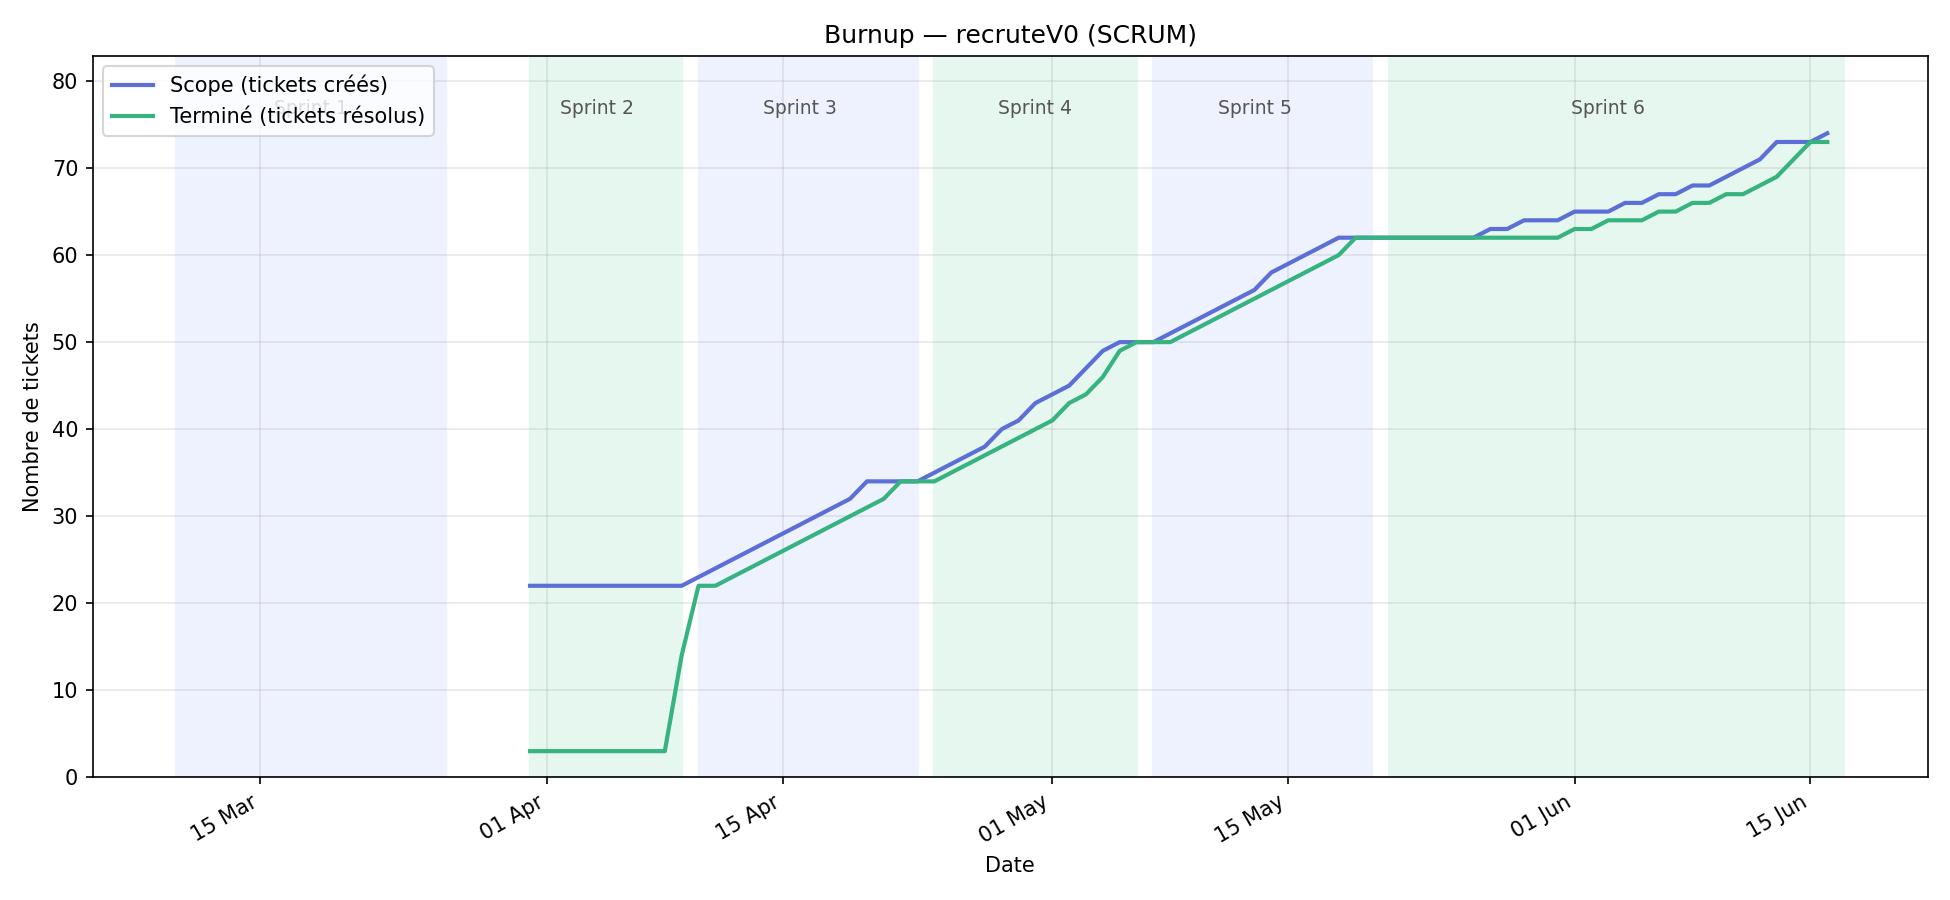
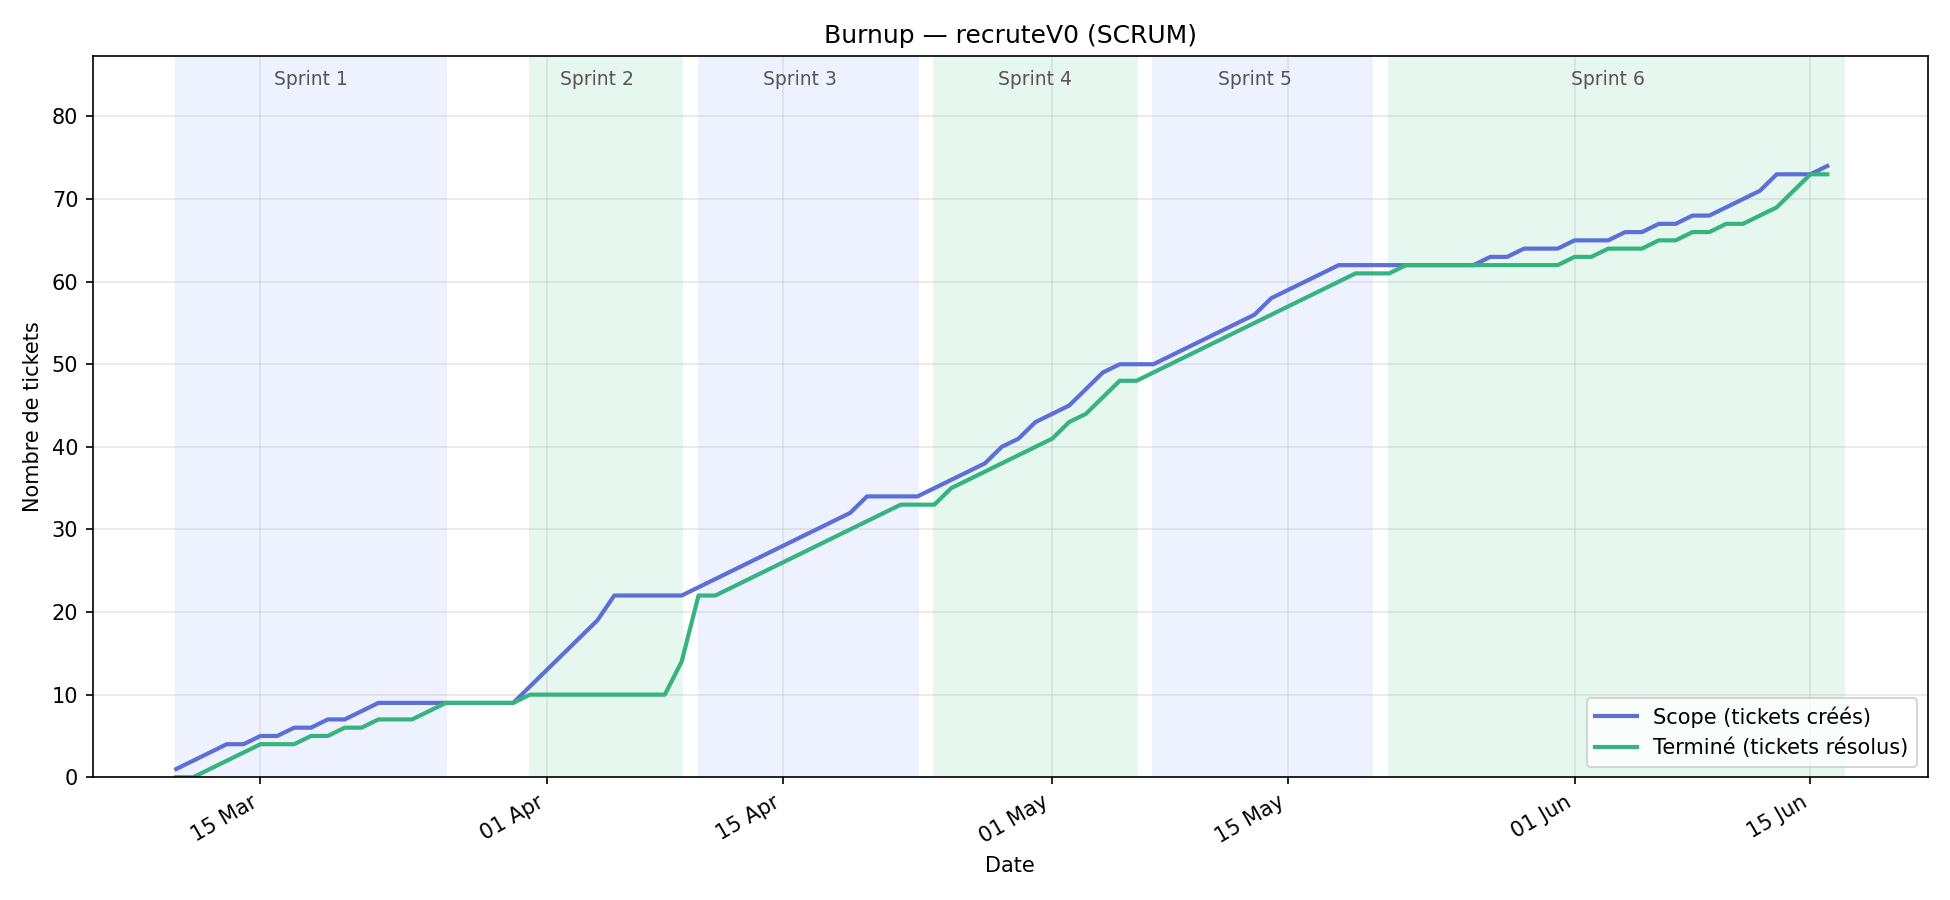
lil fix for tag highligh in suggestions ia

diff --git a/recrute/src/app/candidat/candidat.html b/recrute/src/app/candidat/candidat.html
@@ -154,7 +154,11 @@
       <div class="drawer-section" *ngIf="selectedOffer.jobSkills?.length">
         <div class="dsec-label">Compétences requises</div>
         <div class="drawer-tags">
-          <span *ngFor="let s of selectedOffer.jobSkills" class="tag">{{ s.name }}</span>
+          <span *ngFor="let s of selectedOffer.jobSkills"
+                class="tag"
+                [class.tag-match]="isJobSkillInCv(s.name)">
+            {{ s.name }}<span *ngIf="isJobSkillInCv(s.name)" class="tag-match-tick"> ✓</span>
+          </span>
         </div>
       </div>
 

diff --git a/recrute/src/app/candidat/candidat.scss b/recrute/src/app/candidat/candidat.scss
@@ -309,7 +309,10 @@
   color: rgba(226,232,240,0.8); font-size: 12px; font-weight: 500;
   padding: 4px 10px; border-radius: 20px;
   &.accent { background: rgba(56,189,248,0.12); border-color: rgba(56,189,248,0.3); color: #7dd3fc; }
+  &.tag-match { background: rgba(34, 197, 94, 0.12); border-color: rgba(34, 197, 94, 0.35); color: #4ade80; }
 }
+
+.drawer .tag-match-tick { font-size: 11px; margin-left: 2px; }
 
 .drawer .match-badge {
   padding: 6px 14px; border-radius: 20px; font-size: 14px; font-weight: 700;

diff --git a/recrute/src/app/candidat/candidat.ts b/recrute/src/app/candidat/candidat.ts
@@ -118,6 +118,12 @@ export class CandidatComponent implements OnInit {
     return Math.round((v ?? 0) * 100);
   }
 
+  isJobSkillInCv(skillName: string): boolean {
+    if (!skillName || !this.cvSkills.length) return false;
+    const nl = norm(skillName);
+    return this.cvSkills.some(s => norm(s.name) === nl);
+  }
+
   refreshSuggestions(): void {
     this.computingScores = true;
     this.authService.getCandidateCv(this.candidateId).subscribe({
